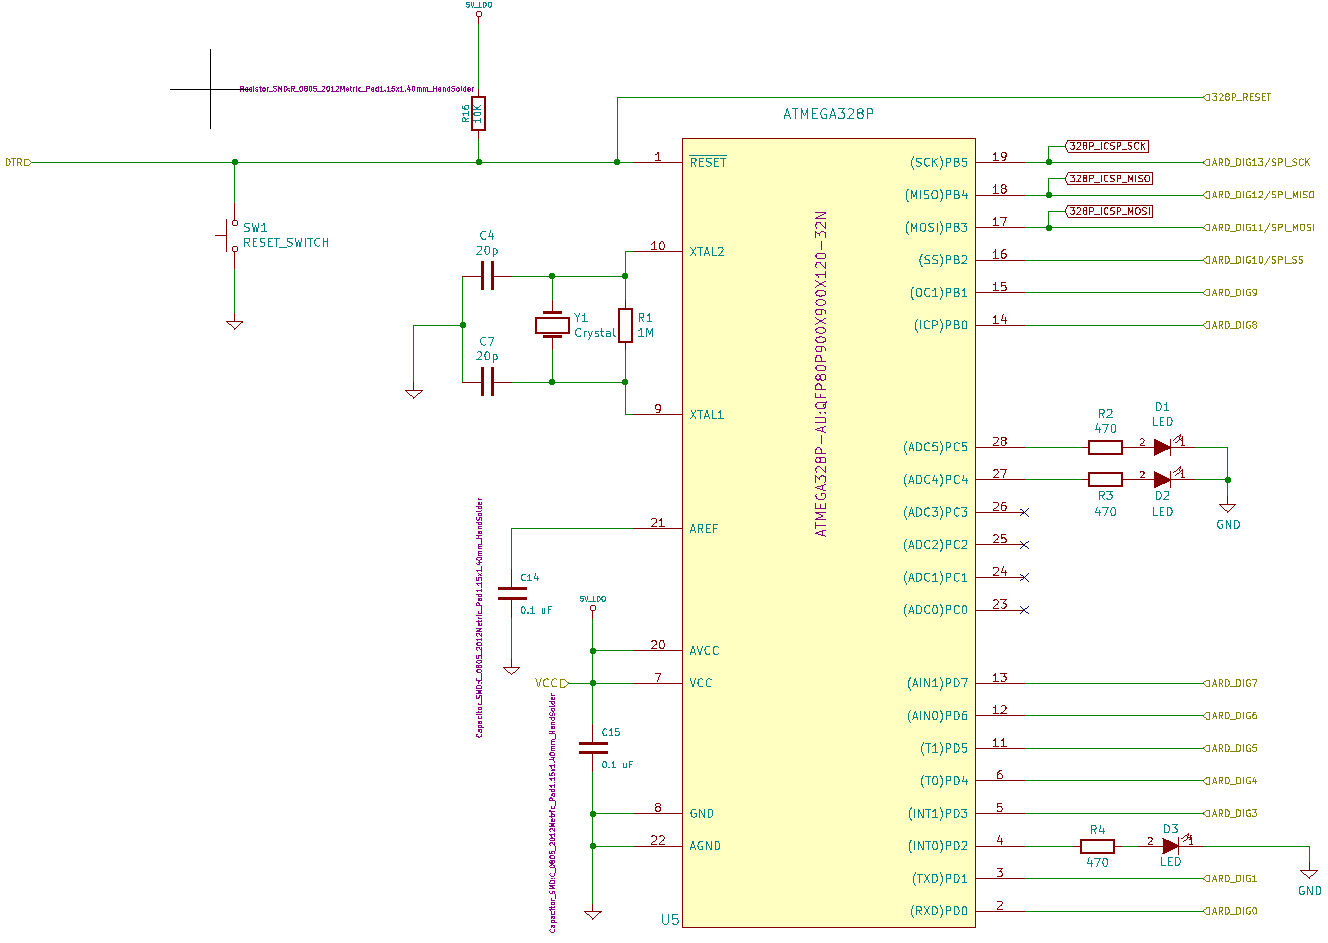
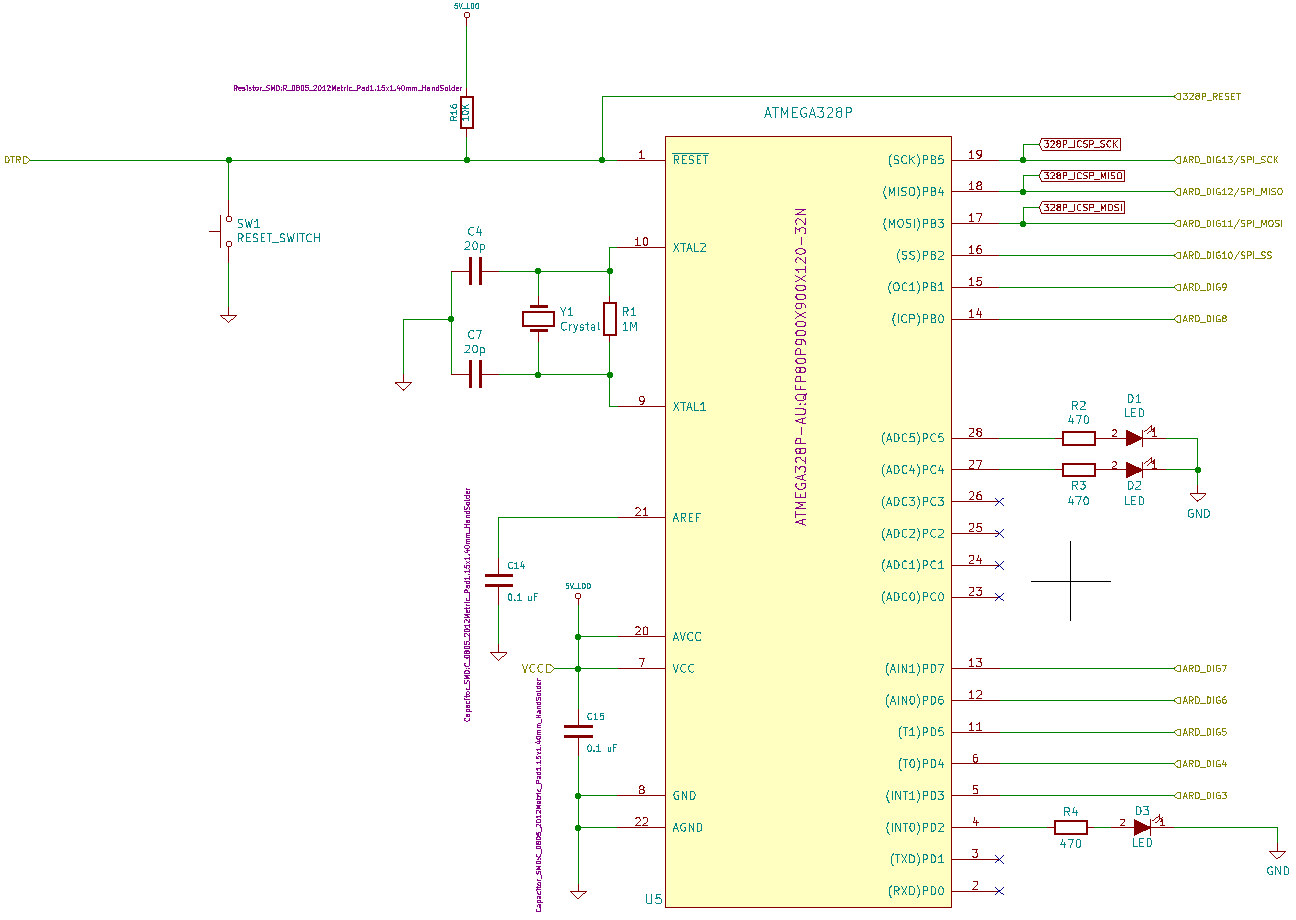
Update pcb design rfid

diff --git a/Ontwerp/RFIDpuzzel.md b/Ontwerp/RFIDpuzzel.md
@@ -32,4 +32,4 @@ Om onze PCB te voeden hebben we twee soldering pads, genaamd B+1 en B-1, aangesl
 
 ![Schematic overview full pcb](../Images/atmegaSchematic.png)
 
-Het schema van de atmega 328P is terug te vinden in de afbeelding hierboven. Link bovenaan is de reset pin terug te vinden. Deze is verbonden met de spanning aangezien deze op basis van active low werkt. De knop om de arduino te resetten wordt dan verbonden met de grond. Om de atmega een werk frequentie te geven hebben we nood aan het kristal X1. De capaciteiten zorgen ervoor dat we een oscillator maken. De weerstand daarentegen is nodig om de oscillator betrouwbaar op te starten.
+Het schema van de atmega 328P is terug te vinden in de afbeelding hierboven. Link bovenaan is de reset pin terug te vinden. Deze is verbonden met de spanning aangezien deze op basis van active low werkt. De knop om de arduino te resetten wordt dan verbonden met de grond. Om de atmega een werk frequentie te geven hebben we nood aan het kristal X1. De capaciteiten zorgen ervoor dat we een oscillator maken. De weerstand daarentegen is nodig om de oscillator betrouwbaar op te starten. Links onderaan vinden nog enekele pinnen die naar de grond of met de voeding worden verbonden. De rechter kant van de atmega 328P bevat de nodige pinnen voor de sensoren. Naast de sensoren gebruiken we ook enkele leds om de toestand van het lock weer te geven. 
